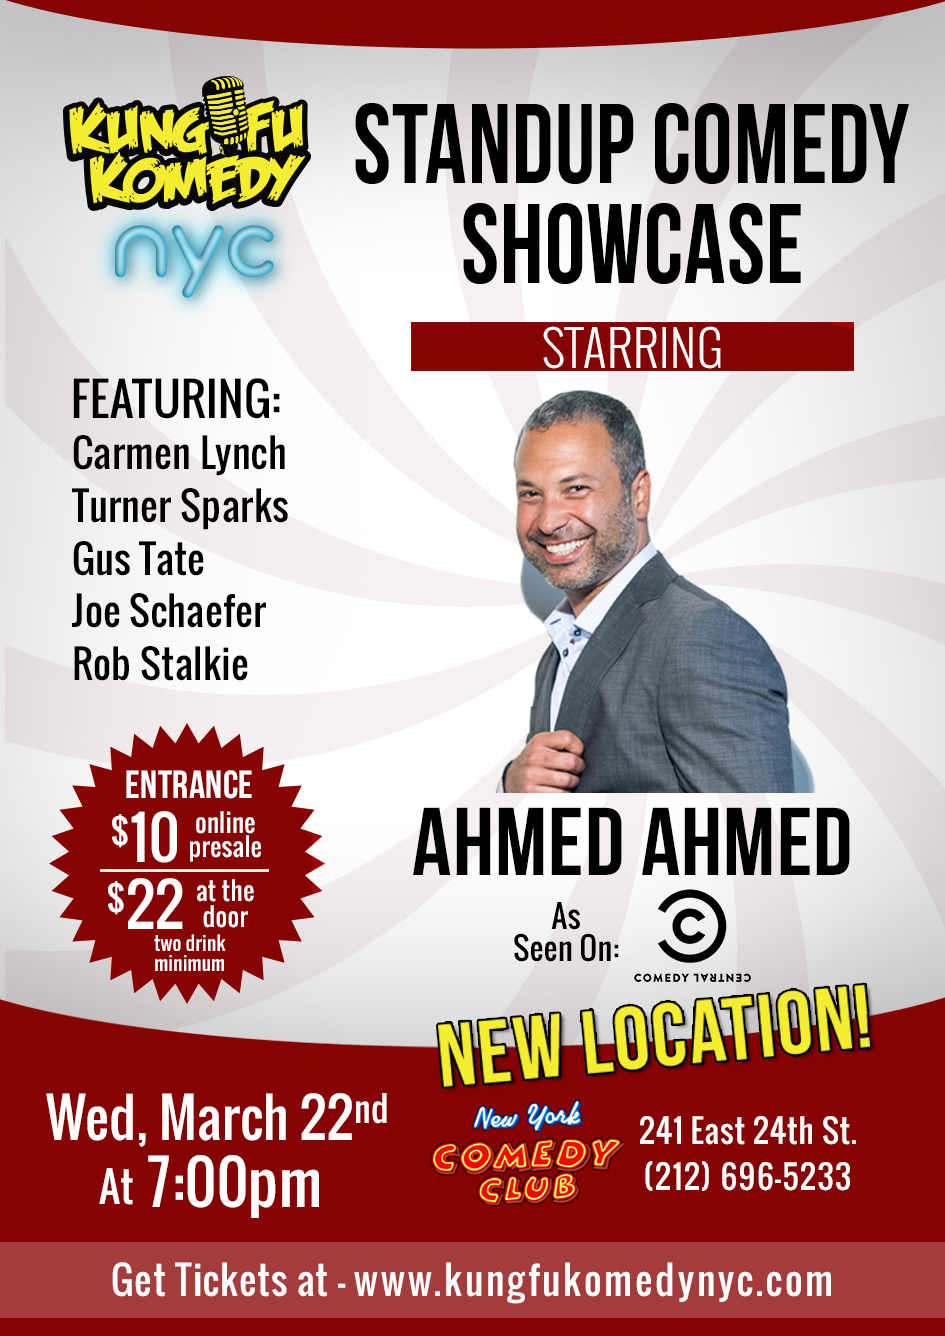
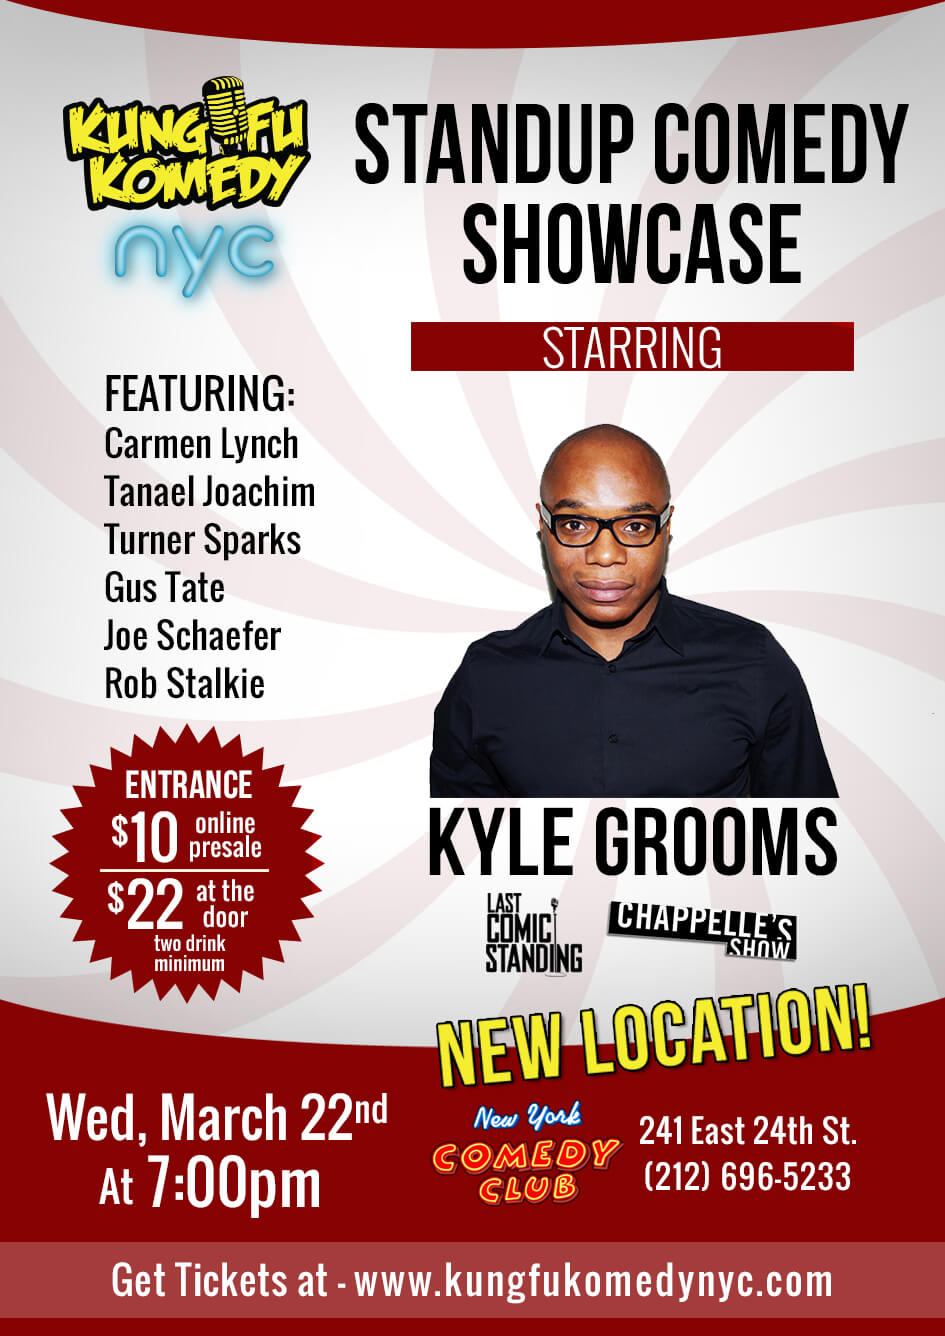
change ahmed to kyle grooms

diff --git a/index.html b/index.html
@@ -131,22 +131,22 @@
                     <img src="img/posters/poster032217.jpg" class="img-responsive center-block" alt="March 22nd, 2017">
                 </div>
                 <div class="col-md-6 col-sm-12 portfolio-item headliner">
-                    <h2 class="text-center headliner-name">Ahmed Ahmed</h2>
+                    <h2 class="text-center headliner-name">Kyle Grooms</h2>
                     <div class="headliner-bio text-left">
-                        <a href="http://www.ahmedahmed.com/" class="portfolio-link" target="blank">
+                        <a href="http://www.kylegrooms.net/" class="portfolio-link" target="blank">
                             <div class="portfolio-hover">
                                 <div class="portfolio-hover-content">
                                     Visit website
                                     <i class="fa fa-search"></i>
                                 </div>
                             </div>
-                            <img src="img/comedians/ahmed-ahmed.jpg" class="img-responsive" alt="Ahmed Ahmed">
+                            <img src="img/comedians/kyle-grooms.jpg" class="img-responsive" alt="Kyle Grooms">
                         </a>
                     </div>
                     <br>
-                    <p>Egyptian-American actor, comedian, producer, and director Ahmed Ahmed is one of the most diverse, multi-faceted talents in the entertainment industry today. Born in Helwan, Egypt and raised in Riverside, California, Ahmed immigrated to the US when he was one month old with his family.
+                    <p>Kyle Grooms delivers an honest and intelligent view of the world, while giving an intimate look into his life experiences growing up in the American melting pot. Throughout his career, he has appeared in his own hysterical half-hour stand-up special on Comedy Central, while also making multiple appearances on VH1, NBC’s “Last Comic Standing,” and famed “Chappelle’s Show.”</p>
+                    <p>Among his many accomplishments, his first comedy CD, “The Legend of the Jersey Devil,” was named one of iTunes’ Top 100 Comedy CD’s of 2009.
                     </p>
-                    <p>In 2005, Ahmed cofounded and performed in the Axis of Evil Comedy Tour which aired on Comedy Central as the first ever Middle Eastern stand-up comedy special. Ahmed is also the winner of the first annual Richard Pryor Award for Ethnic Comedy at the Edinburgh Comedy Festival in Scotland.</p>
                     <br>
                     <p class="text-center"><a href="https://kfknyc.yapsody.com/event/index/68861/kung-fu-komedy-nyc" class="page-scroll btn btn-xl">Get tickets</a></p>
                 </div>                  
